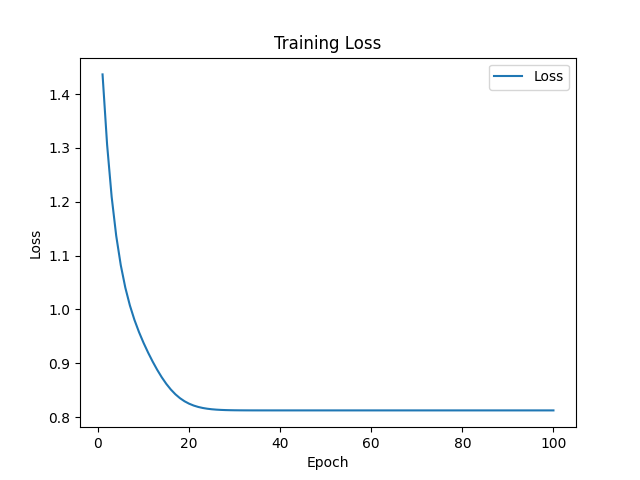
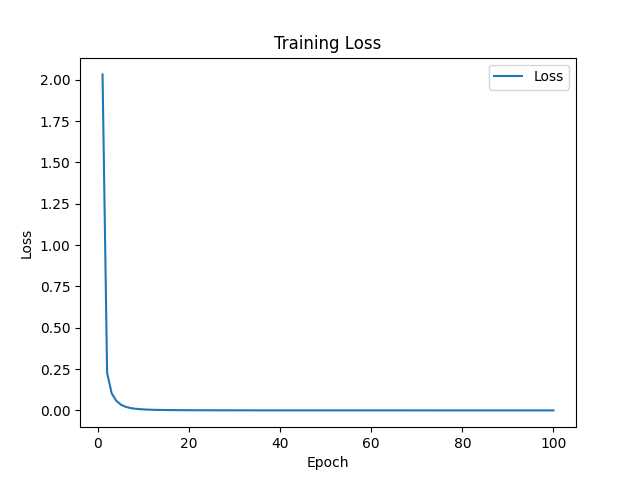
neurons new version

diff --git a/mlp.py b/mlp.py
@@ -12,11 +12,11 @@ class MLP:
     def __init__(self, input_size, hidden_size, output_size, learning_rate):
         """Inicializa a rede neural com uma camada oculta."""
         # Inicializando pesos e bias
-        self.weights_input_to_hidden = matrix.initialize_matrix(input_size, hidden_size)
-        self.weights_hidden_to_output = matrix.initialize_matrix(hidden_size, output_size)
-        self.bias_hidden = matrix.initialize_matrix(1, hidden_size)
-        self.bias_output = matrix.initialize_matrix(1, output_size)
-        self.learning_rate = learning_rate
+        self.hidden_weights = matrix.initialize_matrix(input_size, hidden_size)
+        self.output_weights = matrix.initialize_matrix(hidden_size, output_size)
+        # self.hidden_bias = matrix.initialize_matrix(1, hidden_size)
+        # self.output_bias = matrix.initialize_matrix(1, output_size)
+        self.learning_rate = learning_rate # de 0 a 1
 
     '''
         propaga os dados pela rede neural -> é o que da o output da rede
@@ -25,19 +25,27 @@ class MLP:
 
         P/ cada camada
         saída = F(Dados de entrada x Pesos) + Bias, onde F é a função de ativação
+
+        z_1 = np.dot(X, W_1) # multiplica dados de entrada com pesos da primeira camada
+
+        h_1 = 1 / (1 + np.exp(-z_1)) # produz os valores de ativação da camada oculta
+
+        y_hat = np.dot(h_1, W_2) # multiplica os valores de ativacao da camada oculta pelos pesos da camada de saida
+
+        L = np.sum(y_hat**2) # loss: calcula a funcao de perda entre as previsões y_hat e os rótulos reais (L contém o valor da função de perda)
     '''
     def feedforward(self, X):
         """Executa uma passagem para frente na rede."""
 
-        # Calcula a saída da camada oculta
-        hidden_layer_input = matrix.array_product(X, self.weights_input_to_hidden) # + self.bias_hidden
-        hidden_layer_output =  matrix.apply_function(function.sigmoid, hidden_layer_input)
+        hidden_input = matrix.array_product(X, self.hidden_weights)
 
-        # Calcula a saida da camada de saida
-        output_layer_input = matrix.array_product(hidden_layer_output, self.weights_hidden_to_output) # + self.bias_hidden
-        predicted_output = matrix.apply_function(function.sigmoid, output_layer_input)
+        hidden_output = function.sigmoid(hidden_input)
 
-        return hidden_layer_output, predicted_output
+        exit_input = matrix.array_product(hidden_output, self.output_weights)
+
+        exit_prediction = function.sigmoid(exit_input)
+
+        return exit_prediction, hidden_output
     
     '''
         calcula os gradiented dos pesos da rede em relação ao erro da saida
@@ -45,32 +53,49 @@ class MLP:
 
         error = true_output - predicted_output
         delta = erro * derivada da funcao de ativacao
+
+        dy_hat = 2.0 * y_hat # calcula o gradiente da função de perda entre as previsões y_hat (o gradiente é 2 * erro)
+
+        dW2 = h_1.T.dot(dy_hat) # calcula o gradiente da função de perda em relação aos pesos da camada de saida, onde h_1 = valores de ativação da camada oculta e dy_hat é o gradiente da função de perda
+
+        dh1 = dy_hat.dot(W_2.T) # calcula o gradiente da função de perda em relação aos valores de ativação da camada oculta (h_1), onde W_2 é o peso da camada de saída
+
+        dz1 = dh1 * h_1 * (1 - h_1) # Calcula o gradiente em relação aos valores de entrada da camada oculta z_1, usando a derivada da função sigmoid
+
+        dW1 = X.T.dot(dz1) # calcula o gradiente da função de perda em relação aos pesos da primeira camada W_1, onde dz1 são os valores de entrada da camada oculta
     '''
-    def backpropagate(self, true_output, hidden_layer_output, predicted_output):
+    def backpropagate(self, exit_prediction, hidden_output, input_data):
         """Executa o algoritmo de backpropagation para calcular os gradientes."""
 
-        # Calcula o erro da camada de saída
-        output_error = matrix.elementwise_subtraction(matrix.transpose(true_output), predicted_output)
-        output_delta = output_error * function.sigmoid_derivative(predicted_output)
-        
-        # Calcula o erro da camada oculta
-        hidden_error = matrix.array_product(output_delta, matrix.transpose(self.weights_hidden_to_output))
-        hidden_delta = hidden_error * function.sigmoid_derivative(hidden_layer_output)
+        gradient_loss_prediction = 2.0 * exit_prediction
 
-        return output_delta, hidden_delta
+        gradient_output_layer_weights = matrix.array_product(matrix.transpose(hidden_output), gradient_loss_prediction)
+
+        gradient_activation_hidden_layer = matrix.array_product(gradient_loss_prediction, matrix.transpose(self.output_weights))
+
+        gradient_input_hidden_layer = gradient_activation_hidden_layer * function.sigmoid_derivative(hidden_output)
+
+        gradient_hidden_layer_weights = matrix.array_product(matrix.transpose(input_data), gradient_input_hidden_layer)
+
+
+
+        return gradient_hidden_layer_weights, gradient_output_layer_weights
     
-    # entender essa funcao
-    def update_weights(self, X, output_delta, hidden_delta, hidden_layer_output):
+    '''
+        W1 -= alpha * dW1 # W1 pesos da camada de entrada a camada oculta
+        W2 -= alpha * dW2 # W2 pesos da camada oculta a saida
+    '''
+    def update_weights(self, gradient_hidden_layer_weights, gradient_output_layer_weights):
 
-        self.weights_hidden_to_output += matrix.array_product(matrix.transpose(hidden_layer_output), output_delta) * self.learning_rate
-        self.bias_output += matrix.sum(output_delta, axis=0, keepdims=True) * self.learning_rate
-        self.weights_input_to_hidden += matrix.array_product(matrix.transpose(X), hidden_delta) * self.learning_rate
-        self.bias_hidden += matrix.sum(hidden_delta, axis=0, keepdims=True) * self.learning_rate
+
+        self.hidden_weights -= gradient_hidden_layer_weights * self.learning_rate
+        self.output_weights -= gradient_output_layer_weights * self.learning_rate
+        # fazer pro bias
+
 
     '''''
         X: input data
         y: expected output
-
     '''
     def train(self, input_data, expected_output, epochs):
         loss_values = []
@@ -78,12 +103,29 @@ class MLP:
         precision_values = []
         recall_values = []
         for epoch in range(epochs):
-            hidden_layer_output, predicted_output = self.feedforward(input_data)  # Passagem para frente
-            loss, accuracy, precision, recall = metrics.calculate_metrics(predicted_output, expected_output)
-            loss_values.append(loss), accuracy_values.append(accuracy), precision_values.append(precision), recall_values.append(recall)
-            if (expected_output == predicted_output).all(): # VERIFICAR SE PODE USAR ALL AQUI, é numpy
-                print('UHUUUU')
-            else:
-                output_delta, hidden_delta = self.backpropagate(matrix.transpose(expected_output), hidden_layer_output, predicted_output)  # Passagem para trás
-                self.update_weights(input_data, output_delta, hidden_delta, hidden_layer_output)
-        plot.plot_loss(loss_values, epoch, self.learning_rate), plot.plot_metrics(accuracy_values, precision_values, recall_values, epoch, self.learning_rate)
+            # aprendizado
+            old_hidden_weights = self.hidden_weights.copy()
+            old_output_weights = self.output_weights.copy()
+            output_prediction, hidden_output  = self.feedforward(input_data)  # Passagem para frente
+            g_h_layer_weights, g_o_layer_weights = self.backpropagate(output_prediction, hidden_output, input_data)  # Passagem para trás
+            self.update_weights(g_h_layer_weights,  g_o_layer_weights)
+
+            
+            print('expected_output, output_prediction')
+            print(expected_output)
+            print(output_prediction)
+            # metrica
+            loss, accuracy, precision, recall = metrics.calculate_metrics(output_prediction, expected_output)
+            print('Epoch: ',epoch, ':' , loss, accuracy, precision, recall)
+            print('-----------------------------')
+            loss_values.append(loss)
+            accuracy_values.append(accuracy)
+            precision_values.append(precision)
+            recall_values.append(recall)
+            
+            
+            if (old_hidden_weights == self.hidden_weights).all() and  (old_output_weights == self.output_weights).all():
+                break
+        plot.plot_loss(loss_values, epoch, self.learning_rate)
+        plot.plot_metrics(accuracy_values, precision_values, recall_values, epoch, self.learning_rate)
+        plot.plot_confusion_matrix(output_prediction, expected_output, epoch, self.learning_rate)

diff --git a/metrics/metrics.py b/metrics/metrics.py
@@ -1,16 +1,32 @@
 import ia.matrix as matrix 
-
+import numpy as np
 # tem que adicionar informacoes pra conseguir reproduzir o resultado depois
 
-def calculate_metrics(predicted_output, expected_output):
-  loss = matrix.mean(predicted_output, expected_output)
-  predicted_classes = (predicted_output > 0.5).astype(int)
-  true_positives = matrix.sum((predicted_classes == 1) & (expected_output == 1))
-  false_positives = matrix.sum((predicted_classes == 1) & (expected_output == 0))
-  true_negatives = matrix.sum((predicted_classes == 0) & (expected_output == 0))
-  false_negatives = matrix.sum((predicted_classes == 0) & (expected_output == 1)) 
-  accuracy = (true_positives + true_negatives) / len(expected_output)
-  precision = true_positives / (true_positives + false_positives + 1e-9)
-  recall = true_positives / (true_positives + false_negatives + 1e-9) 
+def calculate_metrics(output_prediction, expected_output):
+
+  loss = loss = matrix.sum(output_prediction**2)
+  # print('Predction, expected', output_prediction, expected_output)
+  true_positives = np.sum((output_prediction == 1) & (expected_output == 1))
+  false_positives = np.sum((output_prediction == 1) & (expected_output == 0))
+  true_negatives = np.sum((output_prediction == 0) & (expected_output == 0))
+  false_negatives = np.sum((output_prediction == 0) & (expected_output == 1))
+
+  # print(true_positives)
+  # print(false_positives)
+  # print(true_negatives)
+  # print(false_negatives)
+
+  accuracy = (true_positives + true_negatives) / len(expected_output) # acuracia
+
+  if true_positives + false_positives != 0:
+    precision = true_positives / (true_positives + false_positives) # precisao
+  else:
+    precision = 0.0
+
+  if true_positives + false_negatives != 0:
+    recall = true_positives / (true_positives + false_negatives) # sensibilidade
+  else:
+    recall = 0.0
+  # specificity = true_negatives / (false_positives + true_negatives) # especificidade
   
   return loss, accuracy, precision, recall

diff --git a/visualization/plot.py b/visualization/plot.py
@@ -1,4 +1,6 @@
 import matplotlib.pyplot as plt
+import seaborn as sns
+import numpy as np
 import os
 
 def plot_loss(loss_values, epoch, learning_rate):
@@ -24,4 +26,24 @@ def plot_metrics(accuracy_values, precision_values, recall_values, epoch, learni
     plt.title('Training Metrics')
     plt.legend()
     plt.savefig(f'plots/learning_rate_{learning_rate}/epoch_{epoch}_metrics.png')
+    plt.close()
+
+def plot_confusion_matrix(output_prediction, expected_output, epoch, learning_rate):
+    num_classes = 2
+    confusion_mat = np.zeros((num_classes, num_classes), dtype=int)
+
+    # Preenche a matriz de confusão
+    for pred, true in zip(output_prediction, expected_output):
+        pred = int(pred)  # Converte para inteiro
+        true = int(true)  # Converte para inteiro
+        confusion_mat[true, pred] += 1
+
+    plt.figure(figsize=(8, 6))
+    sns.heatmap(confusion_mat, annot=True, fmt="d", cmap="Blues", cbar=False)
+    plt.xlabel("Predicted Labels")
+    plt.ylabel("True Labels")
+    plt.title("Confusion Matrix")
+    plt.xticks(np.arange(num_classes), labels=np.arange(num_classes))
+    plt.yticks(np.arange(num_classes), labels=np.arange(num_classes))
+    plt.savefig(f'plots/learning_rate_{learning_rate}/epoch_{epoch}_confusion_matrix.png')
     plt.close()

diff --git a/training/and.py b/training/and.py
@@ -15,5 +15,5 @@ X, y = input.logic_gate_problems(data)
 # input_size = numero de neuronios de entrada (ex: numeros de caracteres 1, -1)
 # hidden_size = numero de neuronios na camada oculta
 # output_size = ex: problema binario tem uma saida, problemas multiclasse podem ter muitas
-model = mlp.MLP(input_size=2, hidden_size=3, output_size=1, learning_rate=0.05)
-model.train(input_data=X, expected_output=y, epochs=100)
+model = mlp.MLP(input_size=2, hidden_size=3, output_size=1, learning_rate=0.01)
+model.train(input_data=X, expected_output=y, epochs=1000)

diff --git a/README.md b/README.md
@@ -3,12 +3,12 @@
 # Processamento de um neurônio
 `Y_inj = bj + ∑(xi*wij)`
 
-`yj = f(Y_inj)`
+`yj = f(y_inj)`
 
 - x = entradas do neurônio j
 - wij = pesos nas conexões entre cada entrada i e o neurônio j
 - bj = um bias
-- Y_inj = entrada total no neurônio j
+- y_inj = entrada total no neurônio j
 - f(Y_inj) = função de ativação
 - yj = saída no neurônio j
 
@@ -33,8 +33,12 @@ else
 - b(old) = bias antigo
 
 
+# Condição de parada do treinamento 
+Se nenhum peso mudou na época, pare; senão continue.
 
 
+## Backpropagation
+`ej(n) = dj(n) - yj(n)`
 
 # Feed Forward 
 
